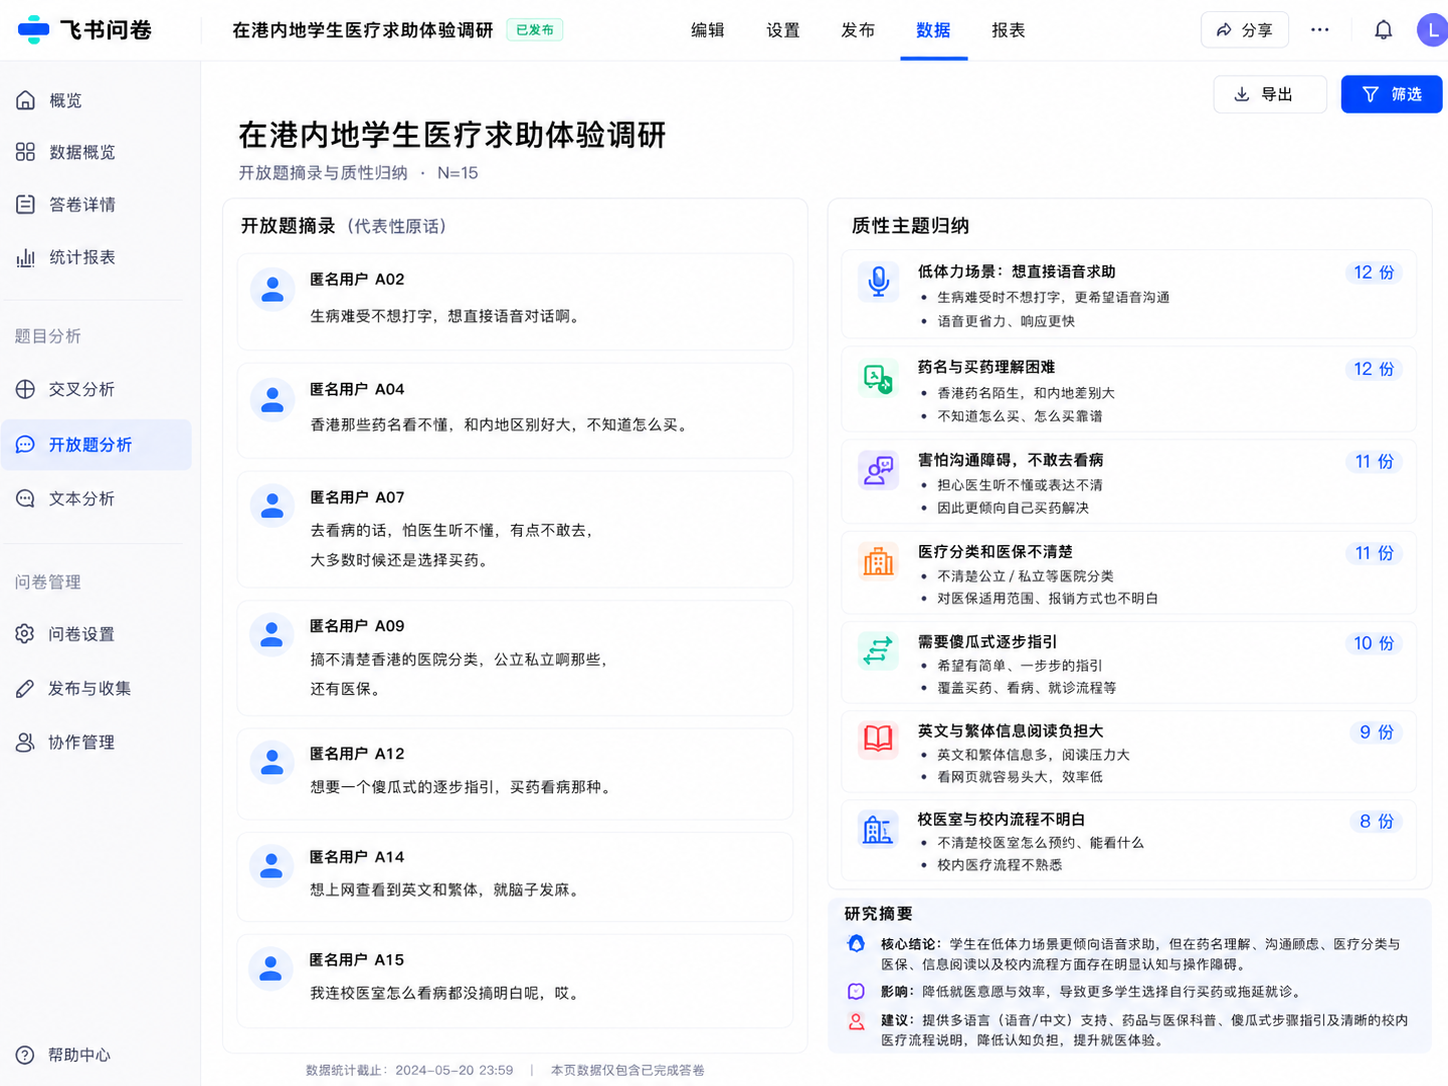
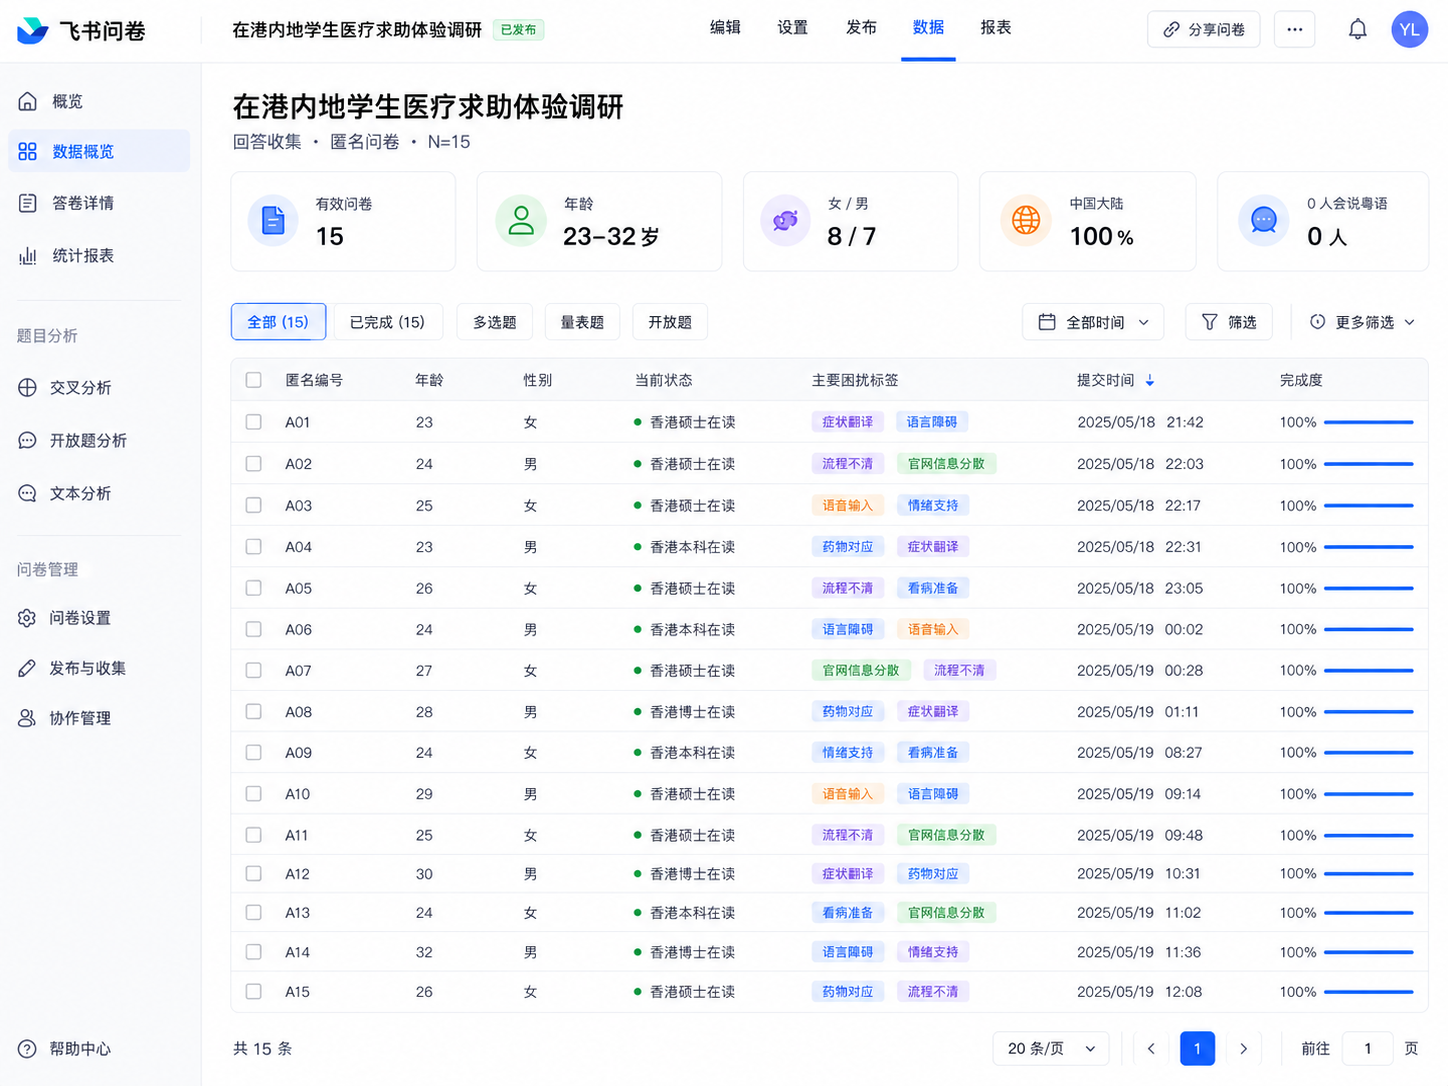
Update research framework visuals and adjust comparison layout.

diff --git a/src/app/pages/ProjectDetailPage.tsx b/src/app/pages/ProjectDetailPage.tsx
@@ -361,14 +361,14 @@ function BauhiniaMind() {
                 />
               </div>
               <div className="mb-8 space-y-6">
-                <div className="overflow-hidden rounded-[0.625rem] bg-white/70">
-                  <img
-                    src="/research-framework.png"
-                    alt="Research framework: Healthcare Journey × five dimensions"
-                    className="block h-auto w-full"
-                  />
-                </div>
-                <div className="grid gap-6 md:grid-cols-3">
+                <div className="grid gap-6 md:grid-cols-2">
+                  <div className="overflow-hidden rounded-[0.625rem] bg-white/70">
+                    <img
+                      src="/research-framework.png"
+                      alt="Research framework: Healthcare Journey × five dimensions"
+                      className="block h-auto w-full"
+                    />
+                  </div>
                   <div className="overflow-hidden rounded-[0.625rem] bg-white/70">
                     <img
                       src="/research-framework-a.png"
@@ -376,6 +376,8 @@ function BauhiniaMind() {
                       className="block h-auto w-full"
                     />
                   </div>
+                </div>
+                <div className="grid gap-6 md:grid-cols-2">
                   <div className="overflow-hidden rounded-[0.625rem] bg-white/70">
                     <img
                       src="/research-framework-b.png"
